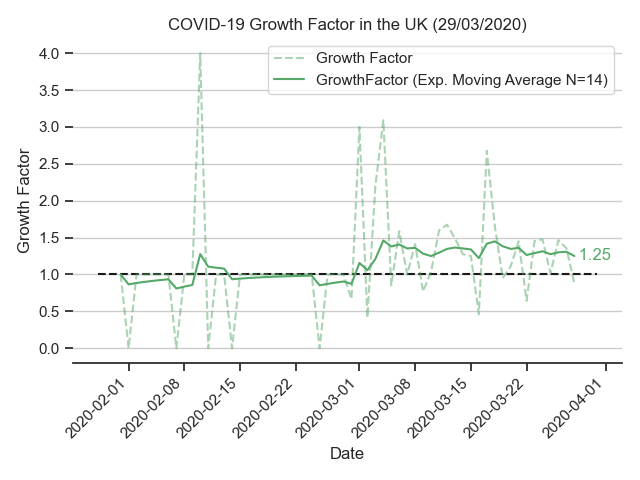
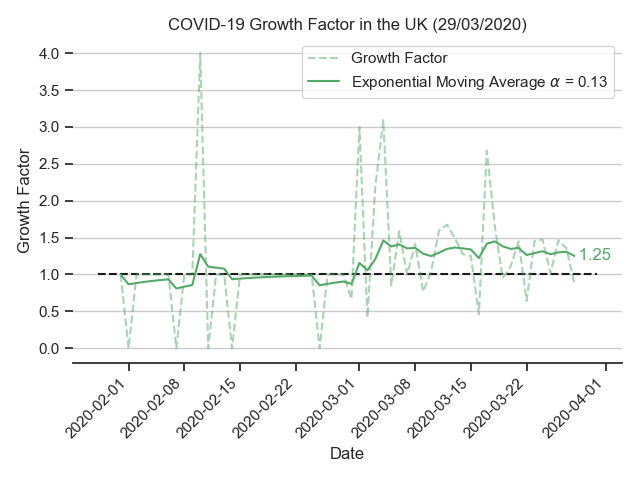
style: change legend for clarity

Changed region(s): [[0.4062, 0.0938, 0.9688, 0.2188]]

diff --git a/bin/plots.py b/bin/plots.py
@@ -79,11 +79,12 @@ def plot_growthfactor(data, **kwargs):
         alpha=0.5,
         label='Growth Factor'
     )
+    alpha = 2 / (14 + 1)
     plt.plot(
         data['DateVal'],
         data['GF14DayEMA'],
         **kwargs,
-        label='GrowthFactor (Exp. Moving Average N=14)',
+        label=f'Exponential Moving Average ($\\alpha$ ={alpha: .2f})',
         marker=None,
     )
     end_x = data['DateVal'].iloc[-1]
